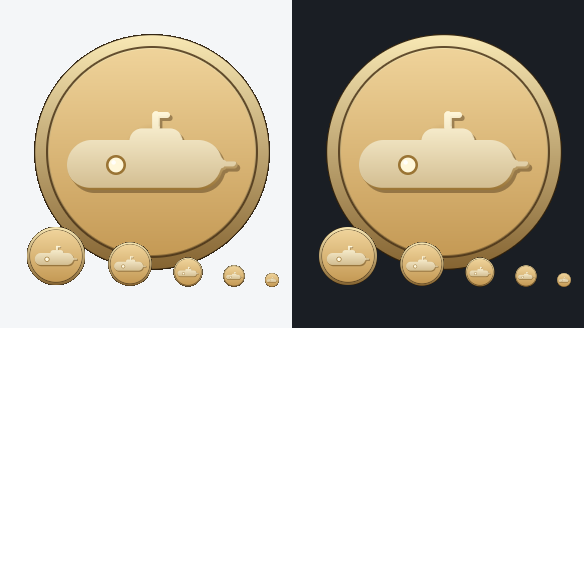
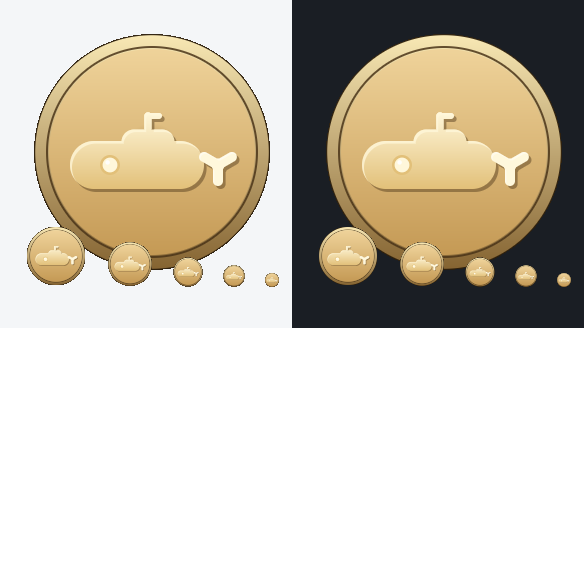
fix: 螺旋桨看得见了，浮雕不再糊成一片
上一版尾巴看着是秃的，三个原因叠在一起：

1. 桨毂放 192、艇身胶囊右端到 199——胶囊端头是圆的，半径往外多伸一截，
   整个螺旋桨被艇身包在里面。现在艇身收到 184、桨毂放 194，中间留缝。
2. 桨叶和艇身同色，就算露出来也糊成一片。现在螺旋桨单独算轮廓、
   用更亮的 PROP_LIGHT（#FFF8DC，亮度 0.97 vs 艇身 0.82）。
3. 桨叶从三根等分改成「一根朝下、两根朝上斜」，侧视下才像螺旋桨。

顺带修了高光：原来拿「偏移后的覆盖度 × 本体覆盖度」当高光，等于把整个艇身
洗白，纵向渐变全被抹平。改成取「本体减去往右下偏移后的本体」那道月牙，
才是真正的受光边。

另外浮雕渐变下限原来比币面还暗（#9A7434 vs 币面 0.82），下半截看着像凹陷。
提到 #E2C079 之后浮雕 0.77–0.89 全程高于币面 0.65–0.80。

验证：发布包 32×32 提取后，艇身 #F2DEAF、舷窗 #FFFBED、螺旋桨 #FFF8DD，
三个亮点都在，外圈下沿 #BE9452 保持金铜渐变。

测试 155 + 19 通过。

diff --git a/tools/make_icon.py b/tools/make_icon.py
@@ -43,18 +43,25 @@ FIELD_DARK = "#B98A42"
 FIELD_EDGE = "#8A6531"
 
 RELIEF_TOP = "#FFF7DA"
-RELIEF_BOTTOM = "#9A7434"
+PROP_LIGHT = "#FFF8DC"
+RELIEF_BOTTOM = "#E2C079"
 RELIEF_EDGE = "#4A3418"
 
 # 潜艇浮雕：艇身、指挥塔、潜望镜、螺旋桨
-# 整体右移 6、下移 11，让「含螺旋桨」的轮廓正好落在圆心：
-# 不挪的话潜艇会偏左上，币面下半空一大块。
-HULL = (68.0, 141.0, 174.0, 141.0, 25.0)
-TOWER = (118.0, 117.0, 146.0, 117.0, 12.5)
-PERISCOPE = (132.0, 105.0, 132.0, 91.0, 3.8)
-PERISCOPE_HEAD = (132.0, 91.0, 143.0, 91.0, 3.0)
-PROP_HUB = (198.0, 141.0, 5.5)
-PORTHOLE = (92.0, 141.0, 10.0)
+# 艇身右端收在 184、桨毂放 192：中间留一道窄缝，不然螺旋桨会被艇身吞掉
+# （胶囊的端头是圆的，半径会多伸出 24，之前桨毂整个落在艇身里）。
+# 「含螺旋桨」的轮廓要正好落在圆心，币面才不会一半空一半挤。
+HULL = (70.0, 141.0, 156.0, 141.0, 24.0)
+TOWER = (110.0, 118.0, 138.0, 118.0, 12.5)
+PERISCOPE = (124.0, 105.0, 124.0, 92.0, 3.8)
+PERISCOPE_HEAD = (124.0, 92.0, 135.0, 92.0, 3.0)
+PROP_HUB = (194.0, 141.0, 6.5)
+PORTHOLE = (86.0, 141.0, 10.0)
+
+# 桨叶：一根朝下、两根朝上斜，侧视下最像螺旋桨
+PROP_ANGLES = (90.0, 210.0, 330.0)
+PROP_BLADE_LENGTH = 16.0
+PROP_BLADE_RADIUS = 5.0
 
 
 # ---------------------------------------------------------------- 颜色工具
@@ -112,23 +119,32 @@ def band(d_px: float, half_width: float) -> float:
 
 # ---------------------------------------------------------------- 画面
 
-def submarine_distance(px: float, py: float) -> float:
-    """潜艇浮雕的轮廓（含螺旋桨）。"""
-    d = min(
+def body_distance(px: float, py: float) -> float:
+    """艇身、指挥塔、潜望镜。"""
+    return min(
         sd_capsule(px, py, *HULL),
         sd_capsule(px, py, *TOWER),
         sd_capsule(px, py, *PERISCOPE),
         sd_capsule(px, py, *PERISCOPE_HEAD),
-        sd_circle(px, py, *PROP_HUB),
     )
 
-    for angle in (0.0, 120.0, 240.0):
+
+def propeller_distance(px: float, py: float) -> float:
+    """桨毂与三片桨叶。单独算，因为它用更亮的金属色，不然和艇身糊成一片。"""
+    d = sd_circle(px, py, *PROP_HUB)
+
+    for angle in PROP_ANGLES:
         radians = math.radians(angle)
-        bx = PROP_HUB[0] + math.cos(radians) * 12.0
-        by = PROP_HUB[1] + math.sin(radians) * 12.0
-        d = min(d, sd_capsule(px, py, PROP_HUB[0], PROP_HUB[1], bx, by, 3.6))
+        bx = PROP_HUB[0] + math.cos(radians) * PROP_BLADE_LENGTH
+        by = PROP_HUB[1] + math.sin(radians) * PROP_BLADE_LENGTH
+        d = min(d, sd_capsule(px, py, PROP_HUB[0], PROP_HUB[1], bx, by, PROP_BLADE_RADIUS))
 
     return d
+
+
+def submarine_distance(px: float, py: float) -> float:
+    """整艘潜艇的轮廓（投影用）。"""
+    return min(body_distance(px, py), propeller_distance(px, py))
 
 
 def shade(px: float, py: float, scale: float) -> tuple[float, float, float, float]:
@@ -166,21 +182,28 @@ def shade(px: float, py: float, scale: float) -> tuple[float, float, float, floa
         field = mix(field, rgb(FIELD_EDGE), clamp((rim - 0.72) / 0.28) * 0.55)
         result = over(result, field, field_alpha)
 
-    # 5) 潜艇浮雕：先投影，再本体，最后压一条亮边和一圈描边
-    body_d = submarine_distance(px, py)
-
+    # 5) 潜艇浮雕：先投影，再本体与螺旋桨
     # 投影：整体往右下错开，看着像凸出版面
     shadow_d = submarine_distance(px - 2.6, py - 3.0)
     result = over(result, rgb(RELIEF_EDGE), cover(px_(shadow_d)) * 0.45)
 
+    body_d = body_distance(px, py)
     body_alpha = cover(px_(body_d))
     if body_alpha > 0:
-        relief = mix(rgb(RELIEF_TOP), rgb(RELIEF_BOTTOM), clamp((py - 87.0) / 79.0))
+        relief = mix(rgb(RELIEF_TOP), rgb(RELIEF_BOTTOM), clamp((py - 88.0) / 77.0))
         result = over(result, relief, body_alpha)
 
-        # 上缘高光：同一形状往上挪一点，只留落在本体里的部分
-        highlight_d = submarine_distance(px + 1.6, py + 2.2)
-        result = over(result, rgb(RELIEF_TOP), cover(px_(highlight_d)) * 0.55 * body_alpha)
+        # 左上缘高光：本体减去「往右下偏移后的本体」，剩下的那道月牙就是受光边。
+        # 直接拿偏移后的覆盖度当高光会把整个艇身洗白，纵向渐变全被抹平。
+        lit_d = body_distance(px - 2.0, py - 2.6)
+        result = over(result, rgb(RELIEF_TOP), body_alpha * (1.0 - cover(px_(lit_d))) * 0.75)
+
+    # 螺旋桨用更亮的金属色，否则和艇身同色、糊成一片，尾巴看着是秃的
+    prop_alpha = cover(px_(propeller_distance(px, py)))
+    if prop_alpha > 0:
+        result = over(result, rgb(PROP_LIGHT), prop_alpha)
+        prop_lit = propeller_distance(px - 1.4, py - 1.8)
+        result = over(result, (1.0, 1.0, 1.0), prop_alpha * (1.0 - cover(px_(prop_lit))) * 0.45)
 
         # 不加描边：潜望镜这类细部件在小尺寸下只有半个像素宽，整根都落在「边缘」上，
         # 描边会把它们涂成一团黑。立体感交给投影与上缘高光。
